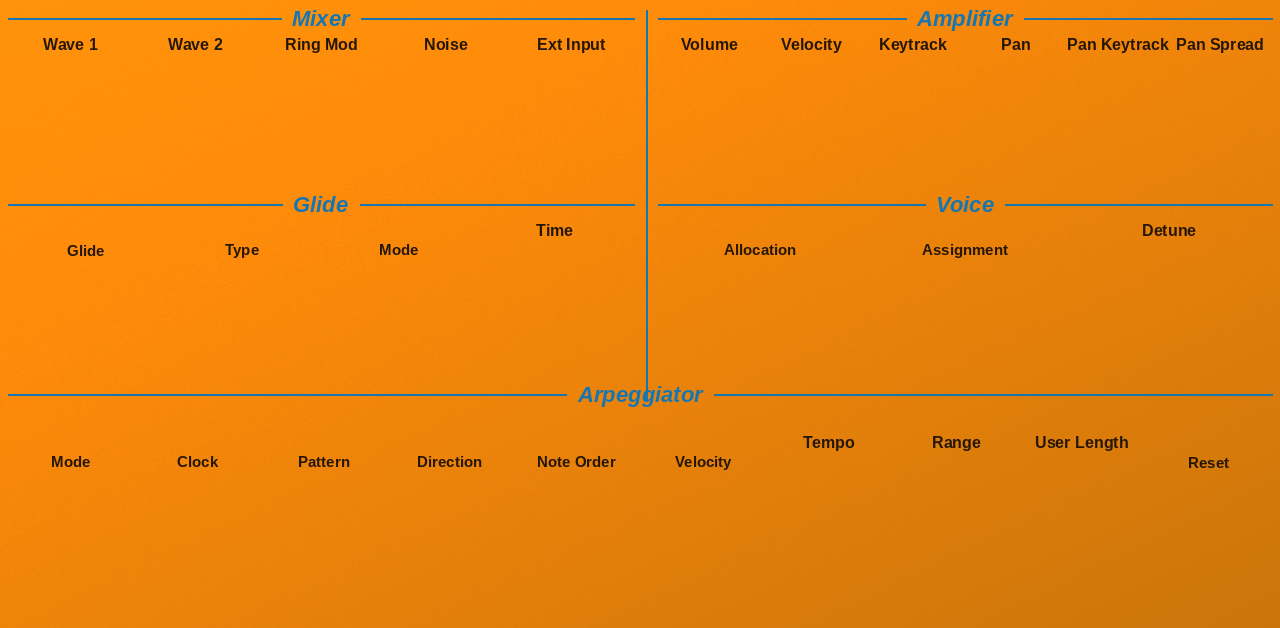
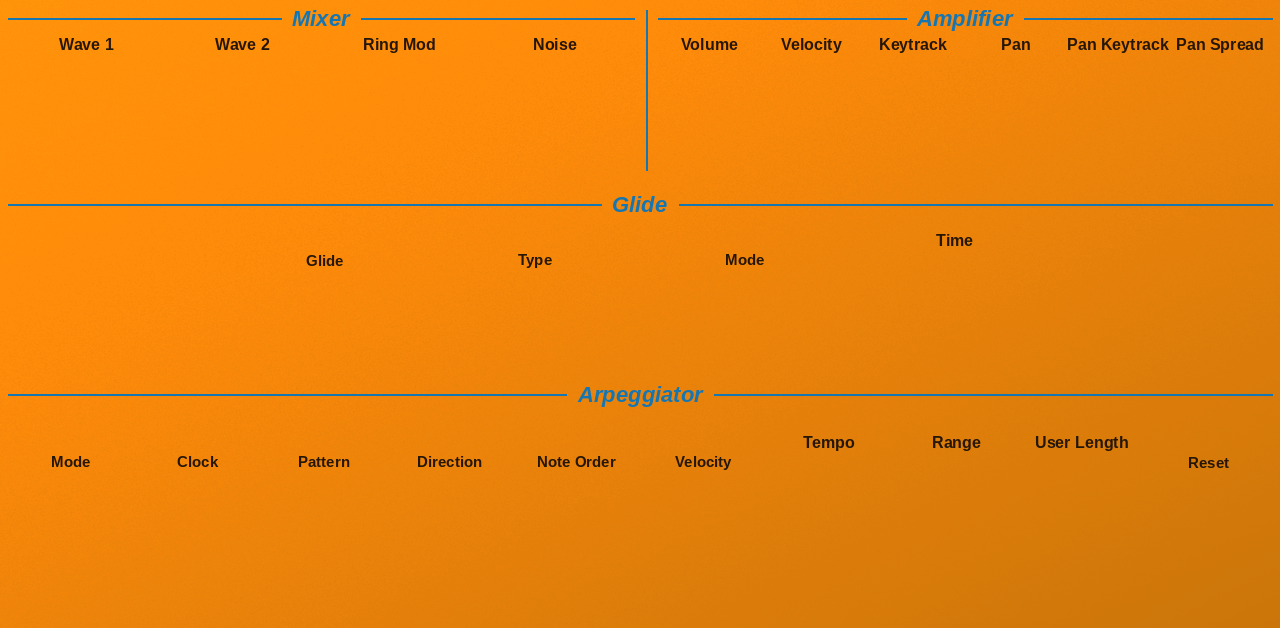
Skin: Voice moves to PLAY (ROM readout dropped), Ext Input removed, MIX & ARP centre divider ends above Glide, Glide row tightened
Claude-Session: https://claude.ai/code/session_01NnBRfCftY3vdpsy8azUhpq

diff --git a/tools/make_skin.py b/tools/make_skin.py
@@ -173,7 +173,7 @@ def header(page, tab_title):
 
 
 # ---------------------------------------------------------------- PLAY
-p = Page("PLAY", ["play_v1", "play_v2", "play_v3", "play_v4", "AmpVolume", "Pan", "gain", "dsp_clock", "EffectParamA", "EffectParamB", "EffectParamC", "-"])
+p = Page("PLAY", ["play_v1", "play_v2", "play_v3", "play_v4", "AmpVolume", "Pan", "gain", "dsp_clock", "EffectParamA", "EffectParamB", "EffectParamC", "-", "Detune", "-", "-", "-"])
 header(p, "PLAY")
 p.heading(14, 130, 560, "Play")
 for n, cx in enumerate((84, 224, 364, 504), 1):
@@ -184,13 +184,14 @@ row(p, 14, 574, 486, [("popup", "EffectType", "Type", 110), ("knob", "EffectPara
                       ("toggle", "ChorusEnabled", "Chorus")])
 p.vline(594, 136, 612)
 p.heading(614, 130, 652, "Engine")
-p.readout(940, 214, "rom_name", "ROM", 600)
-p.readout(786, 296, "loading_status", "Status", 296)
-p.readout(1094, 296, "engine_stats", "Stats", 296)
-p.button(786, 378, "all_notes_off", "PANIC")
-p.button(1094, 378, "init_patch", "INIT PATCH")
-p.heading(614, 430, 652, "Output")
-row(p, 614, 1266, 534, [("knob", "AmpVolume", "Volume"), ("knob", "Pan", "Pan"), ("knob", "gain", "Gain %"), ("knob", "dsp_clock", "DSP Clock %")])
+p.readout(786, 198, "loading_status", "Status", 296)
+p.readout(1094, 198, "engine_stats", "Stats", 296)
+p.button(786, 258, "all_notes_off", "PANIC")
+p.button(1094, 258, "init_patch", "INIT PATCH")
+p.heading(614, 296, 652, "Voice")
+row(p, 614, 1266, 392, [("popup", "AllocationMode", "Allocation", 150), ("popup", "Assignment", "Assignment", 150), ("knob", "Detune", "Detune")])
+p.heading(614, 470, 652, "Output")
+row(p, 614, 1266, 552, [("knob", "AmpVolume", "Volume"), ("knob", "Pan", "Pan"), ("knob", "gain", "Gain %"), ("knob", "dsp_clock", "DSP Clock %")])
 p.done()
 
 # ---------------------------------------------------------------- BANKS
@@ -228,20 +229,17 @@ row(p, 8, 1272, 500, [("popup", "Wave", "Wavetable", 260, 118), ("popup", "Alias
 p.done()
 
 # ---------------------------------------------------------------- MIX & ARP (mixer, amplifier, glide, voice, arpeggiator)
-p = Page("MIX & ARP", ["MixW1", "MixW2", "MixRingMod", "MixNoise", "MixExternal", "AmpVolume", "AmpVelocity", "AmpKeytrack",
-                       "Pan", "PanKeytrack", "DePan", "-"],
-         ("Voice", ["GlideTime", "Detune", "-", "-"]),
-         ("Arp", ["ArpTempo", "ArpRange", "ArpUserPatternLength", "-"]))
+p = Page("MIX & ARP", ["MixW1", "MixW2", "MixRingMod", "MixNoise", "AmpVolume", "AmpVelocity", "AmpKeytrack", "Pan",
+                       "PanKeytrack", "DePan", "-", "-"],
+         ("Glide & Arp", ["GlideTime", "-", "-", "-", "ArpTempo", "ArpRange", "ArpUserPatternLength", "-"]))
 p.heading(8, 4, 626, "Mixer")
-row(p, 8, 634, 92, [("knob", "MixW1", "Wave 1"), ("knob", "MixW2", "Wave 2"), ("knob", "MixRingMod", "Ring Mod"), ("knob", "MixNoise", "Noise"), ("knob", "MixExternal", "Ext Input")])
-p.vline(646, 10, 400)
+row(p, 8, 634, 92, [("knob", "MixW1", "Wave 1"), ("knob", "MixW2", "Wave 2"), ("knob", "MixRingMod", "Ring Mod"), ("knob", "MixNoise", "Noise")])
+p.vline(646, 10, 170)
 p.heading(658, 4, 614, "Amplifier")
 row(p, 658, 1272, 92, [("knob", "AmpVolume", "Volume"), ("knob", "AmpVelocity", "Velocity"), ("knob", "AmpKeytrack", "Keytrack"), ("knob", "Pan", "Pan"),
                        ("knob", "PanKeytrack", "Pan Keytrack"), ("knob", "DePan", "Pan Spread")])
-p.heading(8, 190, 626, "Glide")
-row(p, 8, 634, 278, [("toggle", "GlideEnabled", "Glide"), ("popup", "GlideType", "Type", 130), ("popup", "GlideMode", "Mode", 130), ("knob", "GlideTime", "Time")])
-p.heading(658, 190, 614, "Voice")
-row(p, 658, 1272, 278, [("popup", "AllocationMode", "Allocation", 130), ("popup", "Assignment", "Assignment", 130), ("knob", "Detune", "Detune")])
+p.heading(8, 190, 1264, "Glide")
+row(p, 220, 1060, 288, [("toggle", "GlideEnabled", "Glide"), ("popup", "GlideType", "Type", 150), ("popup", "GlideMode", "Mode", 150), ("knob", "GlideTime", "Time")])
 p.heading(8, 380, 1264, "Arpeggiator")
 row(p, 8, 1272, 490, [("popup", "ArpMode", "Mode", 112), ("popup", "ArpClock", "Clock", 112), ("popup", "ArpPattern", "Pattern", 112), ("popup", "ArpDirection", "Direction", 112),
                       ("popup", "ArpNoteOrder", "Note Order", 112), ("popup", "ArpVelocity", "Velocity", 112), ("knob", "ArpTempo", "Tempo"), ("knob", "ArpRange", "Range"),
